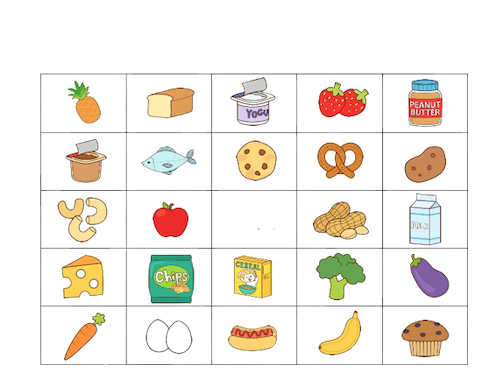
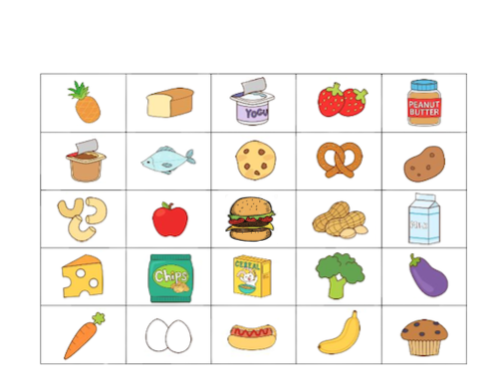
hamburger image
added hamburger image to grocery image

Changed region(s): [[0.0601, 0.1737, 0.9319, 0.9842], [0.1202, 0.2026, 0.1804, 0.2605], [0.3607, 0.55, 0.3908, 0.6079]]

diff --git a/GroceryItem.java b/GroceryItem.java
@@ -5,6 +5,8 @@ import java.awt.image.BufferedImage;
 import java.io.IOException;
 import javax.imageio.ImageIO;
 import java.net.URL;
+import java.util.ArrayList;
+
 import javax.swing.Box;
 import javax.swing.Icon;
 import javax.swing.ImageIcon;
@@ -19,15 +21,16 @@ public class GroceryItem {
     private int yLoc;
     private Icon icon;
     private JButton button;
+    private ArrayList<JButton> buttonList = new ArrayList<>();
     private static final int SQUARE_HEIGHT = 59; //59
 	private static final int SQUARE_WIDTH = 87; //87
 	private static String[][] names = {{"Pineapples", "Bread", "Yogurt", "Strawberries", "Peanut Butter"}, {"Pudding", "Tuna", "Cookies", "Pretzels", "Potatoes"}, {"Macaroni", "Apples", "Null", "Peanuts", "Milk"},{ "Cheese", "Chips", "Cereal", "Broccoli", "Eggplant"}, {"Carrots", "Eggs", "Hot Dogs", "Banana", "Muffins"}};
     public GroceryItem(String s){
         name = s;
         for(int x = 0; x<names.length; x++){
-            System.out.println(x);
+            //System.out.println(x);
             for(int y = 0; y<names[0].length; y++){
-                System.out.println(y);
+                //System.out.println(y);
                 String n = names[x][y];
                 System.out.println(n);
                 if(name.equals(n)){
@@ -36,6 +39,7 @@ public class GroceryItem {
                 image = openImageFromSpriteSheet(y*SQUARE_HEIGHT+70, x*SQUARE_WIDTH+40, SQUARE_WIDTH, SQUARE_HEIGHT);
                 icon = new ImageIcon(image);
                 button = new JButton(icon);
+                buttonList.add(button);
                 }
             }
         }

diff --git a/SwingGraphicsGame.java b/SwingGraphicsGame.java
@@ -5,8 +5,8 @@ import javax.swing.*;
 public class SwingGraphicsGame {
 
 	    public static void main(String[] args) {
-			Calculator calc = new Calculator();
-			Money money= new Money();
+			//Calculator calc = new Calculator();
+			//Money money= new Money();
 	        SwingUtilities.invokeLater(new Runnable() {
 	            @Override
 	            public void run() {

diff --git a/money.java b/money.java
@@ -16,7 +16,7 @@ public class Money extends JFrame implements ActionListener{
         frame=new JFrame("Money");
         frame.setResizable(true);
         frame.setDefaultCloseOperation(JFrame.EXIT_ON_CLOSE);
-        frame.setSize(1450,560);
+        frame.setSize(1450,800);
         frame.setLayout(null);
 
         //setting dollar bills to buttons
